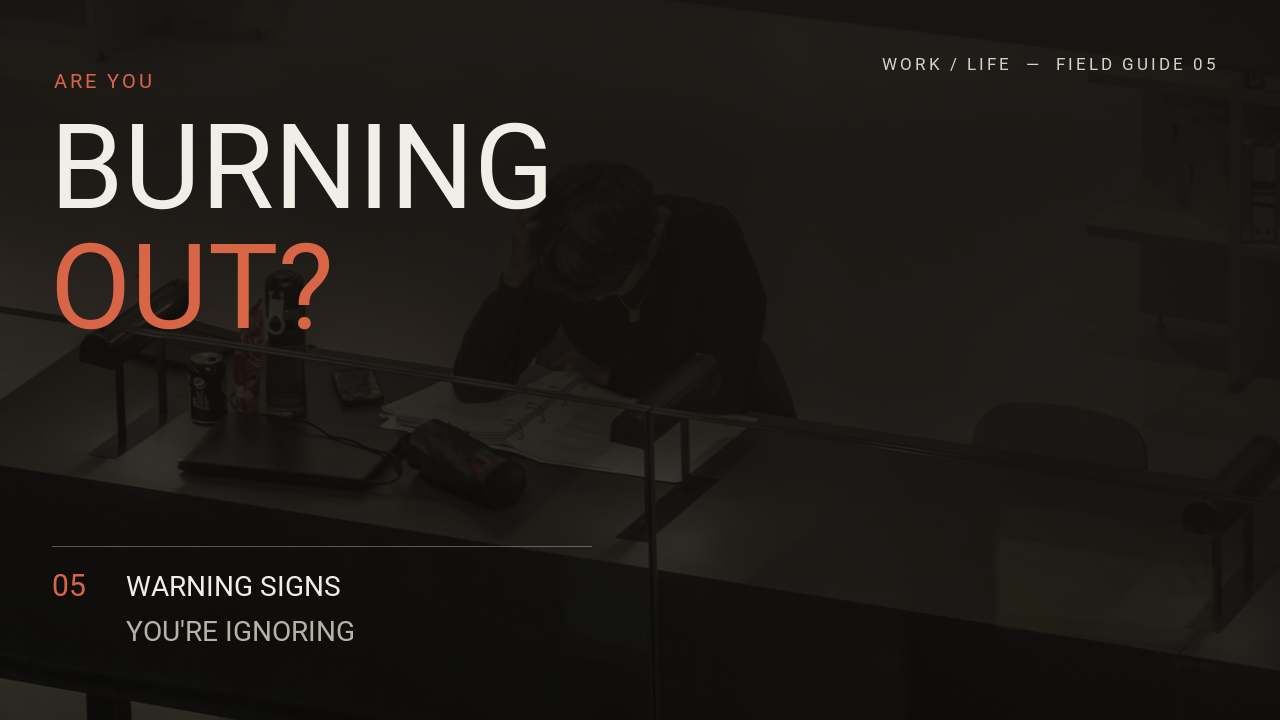
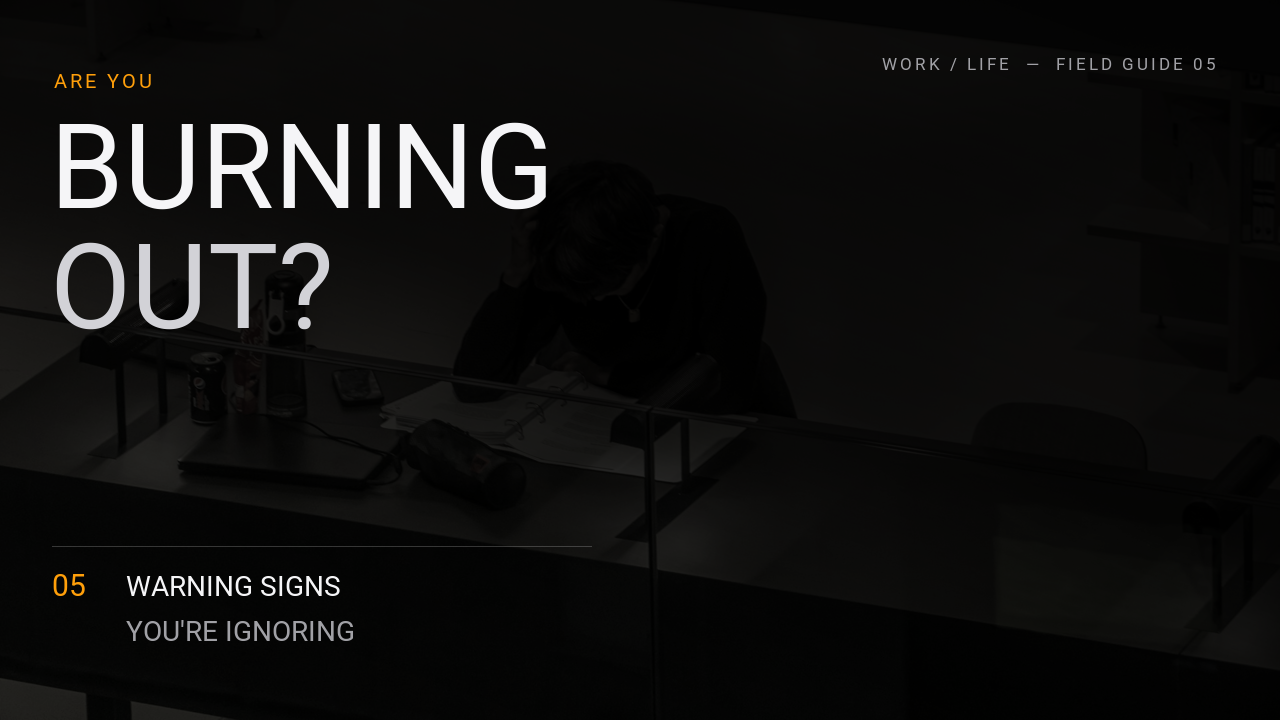
feat: refine example color systems

diff --git a/examples/youtube_reaction.py b/examples/youtube_reaction.py
@@ -21,11 +21,11 @@ os.environ["QUICKTHUMB_DEFAULT_FONT"] = "Roboto"
 
 (
     Canvas(1280, 720)
-    .background(color="#F0EEE8", effects=[Grain(intensity=0.018, monochrome=True, seed=11)])
+    .background(color="#F5F5F7", effects=[Grain(intensity=0.012, monochrome=True, seed=11)])
     .text(
         content="COMMENTARY  /  SIGNAL 01",
         size=17,
-        color="#1A1A18",
+        color="#1D1D1F",
         weight=700,
         letter_spacing=3,
         position=(64, 54),
@@ -35,20 +35,20 @@ os.environ["QUICKTHUMB_DEFAULT_FONT"] = "Roboto"
         position=(64, 92),
         width=1152,
         height=2,
-        color="#1A1A18",
+        color="#1D1D1F",
     )
     .text(
         content="VIRAL",
         size=198,
-        color="#171715",
+        color="#1D1D1F",
         weight=900,
         letter_spacing=-5,
         position=(58, 124),
     )
     .text(
         content=[
-            TextPart(text="TREND ", color="#171715", weight=700),
-            TextPart(text="#1", color="#D84B32", weight=900),
+            TextPart(text="TREND ", color="#1D1D1F", weight=700),
+            TextPart(text="#1", color="#FF3B30", weight=900),
         ],
         size=76,
         position=(64, 360),
@@ -58,14 +58,14 @@ os.environ["QUICKTHUMB_DEFAULT_FONT"] = "Roboto"
         position=(1000, 290),
         width=340,
         height=340,
-        color="#F0EEE8",
+        color="#F5F5F7",
         align=("center", "middle"),
-        effects=[Stroke(width=3, color="#D84B32")],
+        effects=[Stroke(width=3, color="#FF3B30")],
     )
     .text(
         content="12.4M",
         size=104,
-        color="#D84B32",
+        color="#FF3B30",
         weight=900,
         letter_spacing=-3,
         position=(1000, 245),
@@ -74,7 +74,7 @@ os.environ["QUICKTHUMB_DEFAULT_FONT"] = "Roboto"
     .text(
         content="VIEWS / 48H",
         size=19,
-        color="#171715",
+        color="#1D1D1F",
         weight=700,
         letter_spacing=3,
         position=(1000, 338),
@@ -83,7 +83,7 @@ os.environ["QUICKTHUMB_DEFAULT_FONT"] = "Roboto"
     .text(
         content="?!",
         size=66,
-        color="#171715",
+        color="#1D1D1F",
         weight=700,
         position=(1178, 536),
         align=("right", "top"),
@@ -91,7 +91,7 @@ os.environ["QUICKTHUMB_DEFAULT_FONT"] = "Roboto"
     .text(
         content="WHY IT WORKED — AND WHAT COMES NEXT",
         size=22,
-        color="#5E5D58",
+        color="#6E6E73",
         weight=600,
         letter_spacing=2,
         position=(64, 642),
@@ -101,9 +101,9 @@ os.environ["QUICKTHUMB_DEFAULT_FONT"] = "Roboto"
         position=(64, 610),
         width=1152,
         height=1,
-        color="#1A1A1844",
+        color="#1D1D1F33",
     )
-    .outline(width=2, color="#171715")
+    .outline(width=1, color="#1D1D1F")
     .render(OUTPUT_PATH)
 )
 

diff --git a/examples/podcast_interview_promo.py b/examples/podcast_interview_promo.py
@@ -37,13 +37,13 @@ SHOW_FONT_URL = "https://fonts.gstatic.com/s/dmserifdisplay/v17/-nFnOHM81r4j6k0g
     .background(
         gradient=LinearGradient(
             angle=0,
-            stops=[("#10100F", 0.0), ("#10100FF2", 0.5), ("#10100F80", 1.0)],
+            stops=[("#000000", 0.0), ("#000000F2", 0.5), ("#00000080", 1.0)],
         )
     )
     .text(
         content="NEW EPISODE  /  06",
         size=18,
-        color="#E96A4A",
+        color="#A1A1A6",
         weight=800,
         letter_spacing=3,
         position=(64, 54),
@@ -52,7 +52,7 @@ SHOW_FONT_URL = "https://fonts.gstatic.com/s/dmserifdisplay/v17/-nFnOHM81r4j6k0g
         content="Signal to Noise",
         font=SHOW_FONT_URL,
         size=46,
-        color="#F0EDE4",
+        color="#F5F5F7",
         position=(62, 88),
     )
     .shape(
@@ -60,12 +60,12 @@ SHOW_FONT_URL = "https://fonts.gstatic.com/s/dmserifdisplay/v17/-nFnOHM81r4j6k0g
         position=(64, 158),
         width=78,
         height=4,
-        color="#E96A4A",
+        color="#A1A1A6",
     )
     .text(
         content="HOW GREAT TEAMS\nBUILD BETTER\nFEEDBACK LOOPS",
         size=60,
-        color="#F5F2EA",
+        color="#F5F5F7",
         weight=700,
         line_height=1.04,
         position=(60, 196),
@@ -73,7 +73,7 @@ SHOW_FONT_URL = "https://fonts.gstatic.com/s/dmserifdisplay/v17/-nFnOHM81r4j6k0g
     .text(
         content="A practical interview on shipping faster without breaking trust.",
         size=27,
-        color="#B8B5AD",
+        color="#A1A1A6",
         position=(64, 412),
         max_width=570,
         line_height=1.25,
@@ -83,12 +83,12 @@ SHOW_FONT_URL = "https://fonts.gstatic.com/s/dmserifdisplay/v17/-nFnOHM81r4j6k0g
         position=(64, 536),
         width=420,
         height=1,
-        color="#F0EDE455",
+        color="#FFFFFF33",
     )
     .text(
         content="GUEST",
         size=15,
-        color="#E96A4A",
+        color="#A1A1A6",
         weight=700,
         letter_spacing=3,
         position=(64, 558),
@@ -97,13 +97,13 @@ SHOW_FONT_URL = "https://fonts.gstatic.com/s/dmserifdisplay/v17/-nFnOHM81r4j6k0g
         content="Mina Park",
         font=SHOW_FONT_URL,
         size=38,
-        color="#F5F2EA",
+        color="#F5F5F7",
         position=(62, 582),
     )
     .text(
         content="AI Product Lead",
         size=19,
-        color="#A6A39C",
+        color="#86868B",
         weight=500,
         position=(66, 630),
     )
@@ -112,7 +112,7 @@ SHOW_FONT_URL = "https://fonts.gstatic.com/s/dmserifdisplay/v17/-nFnOHM81r4j6k0g
         position=(872, 54),
         width=3,
         height=612,
-        color="#E96A4A",
+        color="#FFFFFF33",
     )
     .image(
         path=GUEST_URL,

diff --git a/examples/youtube_thumbnail_01.py b/examples/youtube_thumbnail_01.py
@@ -24,14 +24,14 @@ os.environ["QUICKTHUMB_DEFAULT_FONT"] = "Roboto"
     # For now, using a dark background as placeholder
     .background(
         image=os.path.join(ASSETS_DIR, "images", "c-g-JgDUVGAXsso-unsplash.jpg"),
-        effects=[Filter(brightness=0.68, contrast=1.04, saturation=0.52)],
+        effects=[Filter(brightness=0.66, contrast=1.03, saturation=0.32)],
     )
     # Add a semi-transparent overlay to darken the background
     # This helps text stand out better
     .background(
         gradient=LinearGradient(
             angle=90,
-            stops=[("#0B1424F7", 0.0), ("#0B1424D9", 0.52), ("#0B142438", 1.0)],
+            stops=[("#000000F7", 0.0), ("#000000D9", 0.52), ("#00000038", 1.0)],
         )
     )
     .shape(
@@ -39,12 +39,12 @@ os.environ["QUICKTHUMB_DEFAULT_FONT"] = "Roboto"
         position=("8%", "13%"),
         width=12,
         height=12,
-        color="#86A9E6",
+        color="#0A84FF",
     )
     .text(
         content="QUICKTHUMB  /  FIELD GUIDE 01",
         size=18,
-        color="#D7DCE5",
+        color="#D2D2D7",
         weight=700,
         letter_spacing=3,
         position=("10.5%", "12.5%"),
@@ -54,15 +54,15 @@ os.environ["QUICKTHUMB_DEFAULT_FONT"] = "Roboto"
         content=[
             TextPart(
                 text="MAKE BETTER\nTHUMBNAILS\n",
-                color="#F2F3F5",
+                color="#F5F5F7",
             ),
             TextPart(
                 text="IN MINUTES\n",
-                color="#86A9E6",
+                color="#D2D2D7",
             ),
             TextPart(
                 text="A practical workflow for faster creative output.",
-                color="#B8C0CC",
+                color="#A1A1A6",
                 size=28,
             ),
         ],
@@ -77,12 +77,12 @@ os.environ["QUICKTHUMB_DEFAULT_FONT"] = "Roboto"
         position=(1040, 104),
         width=1,
         height=512,
-        color="#D7DCE555",
+        color="#FFFFFF33",
     )
     .text(
         content="CODE\nRENDER\nSHIP",
         size=17,
-        color="#D7DCE5",
+        color="#A1A1A6",
         weight=600,
         line_height=1.8,
         letter_spacing=2,
@@ -91,13 +91,13 @@ os.environ["QUICKTHUMB_DEFAULT_FONT"] = "Roboto"
     .text(
         content="01",
         size=72,
-        color="#86A9E6",
+        color="#0A84FF",
         weight=500,
         position=(1192, 606),
         align=("right", "bottom"),
     )
     # Add bright neon green border
-    .outline(width=2, color="#D7DCE5")
+    .outline(width=1, color="#FFFFFF55")
     # Render the thumbnail
     .render(os.path.join(FILE_DIR, "youtube_thumbnail_01.png"))
 )

diff --git a/examples/youtube_thumbnail_02.py b/examples/youtube_thumbnail_02.py
@@ -28,20 +28,20 @@ HEIGHT = 720
     .background(
         image=os.path.join(ASSETS_DIR, "images", "denise-jans-WIRvXd1PYlg-unsplash.jpg"),
         fit=FitMode.COVER,
-        effects=[Filter(brightness=0.62, contrast=1.06, saturation=0.38)],
+        effects=[Filter(brightness=0.58, contrast=1.04, saturation=0.18)],
     )
     # 2. Gradient Overlay (Dark bottom-left to transparent top-right)
     # This ensures text readability on the left side
     .background(
         gradient=LinearGradient(
             angle=110,
-            stops=[("#151210F5", 0.0), ("#151210D6", 0.48), ("#15121033", 1.0)],
+            stops=[("#000000F5", 0.0), ("#000000D6", 0.48), ("#00000033", 1.0)],
         ),
     )
     .text(
         content="WORK / LIFE  —  FIELD GUIDE 05",
         size=17,
-        color="#D7D0C6",
+        color="#A1A1A6",
         weight=700,
         letter_spacing=3,
         position=(1216, 58),
@@ -52,7 +52,7 @@ HEIGHT = 720
     .text(
         content="ARE YOU",
         size=20,
-        color="#D86546",
+        color="#FF9F0A",
         position=(54, 74),
         weight=700,
         letter_spacing=3,
@@ -61,7 +61,7 @@ HEIGHT = 720
     .text(
         content="BURNING",
         size=118,
-        color="#F1EEE8",
+        color="#F5F5F7",
         position=(50, 122),
         weight=800,
     )
@@ -69,7 +69,7 @@ HEIGHT = 720
     .text(
         content="OUT?",
         size=118,
-        color="#D86546",
+        color="#D2D2D7",
         position=(50, 242),
         weight=800,
     )
@@ -79,12 +79,12 @@ HEIGHT = 720
         position=(52, 546),
         width=540,
         height=1,
-        color="#F1EEE855",
+        color="#FFFFFF33",
     )
     .text(
         content="05",
         size=30,
-        color="#D86546",
+        color="#FF9F0A",
         position=(52, 574),
         weight=800,
     )
@@ -92,7 +92,7 @@ HEIGHT = 720
     .text(
         content="WARNING SIGNS",
         size=28,
-        color="#F1EEE8",
+        color="#F5F5F7",
         position=(126, 576),
         weight=600,
     )
@@ -100,7 +100,7 @@ HEIGHT = 720
     .text(
         content="YOU'RE IGNORING",
         size=28,
-        color="#B8B1A8",
+        color="#A1A1A6",
         position=(126, 620),
         weight=500,
     )
